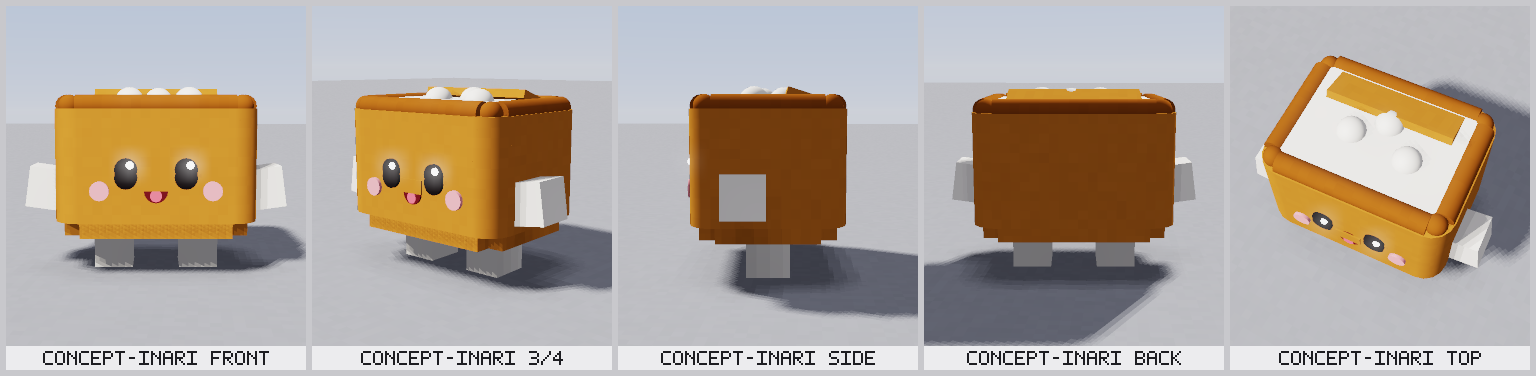
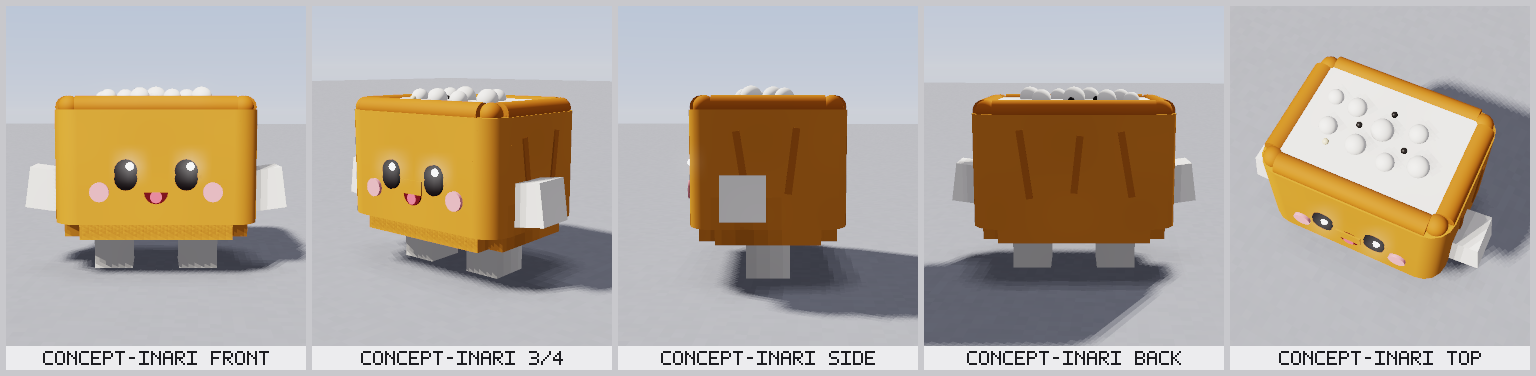
feat(m5-30): concept topping quality pass (unagi, uni, tako, inari)
Raise the concept-body part budget 47 -> 70 (user decision) and rebuild
the four batch-2 toppings with two-tone layers, grain and skin: grilled
eel slab with a glossy tare layer, layered uni lobes with shiso, tako
with purple skin caps and suckers, inari with creases and sesame.
Fixes m5-29 QA B1 (band hid flustered brows) and B2 (floating nori).

diff --git a/docs/developer/m5-30-concept-topping-quality.md b/docs/developer/m5-30-concept-topping-quality.md
@@ -1,0 +1,30 @@
+# m5-30 콘셉트 스킨 2차 토핑 퀄리티 패스
+
+스펙: `docs/specs/m5-30-concept-topping-quality.md` · 바탕: `docs/developer/m5-29-concept-skins-2.md`
+
+## 인계 메모 (최신이 위)
+
+### 2026-10-14 — 구현·렌더·테스트 끝, `in-qa`
+- 브랜치: `m5-30-concept-topping-quality` (main f47c428에서)
+- 바뀐 파일
+  - `src/shared/SushiBody.luau`: 콘셉트 몸 `partBudget` 47 → 70.
+  - `src/shared/SushiConceptSample.luau`: 장어·성게·문어·유부 토핑과 색을 새로 만듦, `band` 아래끝 0.32 → 0.46(B1), 유부 재질 Sand.
+  - 테스트: m5-27·m5-28(상한 70), m5-29(토핑 파츠 이름·장어 Glass는 소스 층), m5-29-qa(당황 표정 추가).
+  - 그림: `docs/renders/characters/concept-{unagi,uni,tako,inari}-*.png` 20장 + `concept-skins-lineup.png` 덮어씀.
+- 다음 첫 단계: QA.
+
+#### 토핑 구성 (게임 레이아웃, 당황 표정 파츠 수 / 70)
+| 스킨 | 당황 | 토핑 |
+|---|---|---|
+| concept-unagi | 65 | 김 띠 6 + 구운 살 판(호박빛) 9 + 타레 소스 층(Glass) 9 + 석쇠 자국 4 + 참깨 6 + 김 6 |
+| concept-uni | 65 | 김 띠 그릇 6 + 진한 바닥 1 + 작은 혀 조각 10개(원기둥 + 앞뒤 공, 진한 주황·주황·겨자 3색, 앞줄은 앞으로 흘러내리고 뒷줄은 뒤로 기댐, 가운데 위 2개) 30 + 시소 잎 3 |
+| concept-tako | 59 | 흰 살 돔 + 적갈 껍질 테 12 + 물결 썰기 결 4 + 돔 양 끝 위 껍질 공 2 + 빨판 6(바깥 분홍 + 가운데 오목 점) 12 + 김 4 |
+| concept-inari | 53 | 말린 입구 테두리 8 + 흰 밥 판 1 + 밥알 8 + 참깨 4(검정 3·흰 1) + 옆·등 주름 7 |
+
+#### 렌더 비평 (studio 조명)
+1. **1회차** — 장어: 연어식 높은 돔(진한 Glass) + 호박빛 테두리 + 석쇠·윤기 줄 + 참깨 → 둥근 초콜릿 공·헬멧처럼 보여 오히려 장어 같지 않음. 성게: 작은 조각이 겹겹이 쌓이고 3색이 섞여 m5-29의 "소시지 4개"보다 훨씬 진짜 같음. 문어: 껍질 공이 몸 옆으로 작은 혹처럼만 솟음. 유부: 주름이 진한 선이라 갈라진 금처럼 보임.
+2. **2회차** — 장어: 넓적한 구운 살 판 위에 0.2씩 작은 타레 소스 층 → 가장자리에 노릇한 살이 테두리로 보이고 위는 윤기 나는 진갈색, 석쇠 자국·참깨 — 시트와 실제 장어초밥에 가장 가까움. 문어: 껍질 공을 위로(0.4) 올리고 크게(1.6) → 돔 양 끝 윗부분이 적갈 껍질이고 빨판이 거기 붙어 문어로 읽힘. 유부: 더 노릇한 색, 주름을 밝고 넓게 → 금 대신 주름결.
+- 남은 약점: 유부는 공유 밥 몸이 상자라 여전히 각진 주머니(모양을 바꾸려면 공유 몸 예외를 늘려야 해요). 장어 소스 층 앞 두께가 얇아 정면에서는 테두리 위 진한 띠로만 보여요.
+
+#### 검증 결과 (2026-10-14, 로컬 Windows)
+rojo build OK · stylua OK · selene 0/0/0 · `lune run tests` **1858 passed, 0 failed** · luau-lsp 끝 코드 0

diff --git a/docs/specs/m5-30-concept-topping-quality.md b/docs/specs/m5-30-concept-topping-quality.md
@@ -1,0 +1,34 @@
+status: in-qa
+<!-- draft | ready | in-dev | in-qa | qa-passed | done -->
+
+# m5-30 — 콘셉트 스킨 2차 토핑 퀄리티 패스 (장어·성게 군함·문어·유부)
+
+- 마일스톤: M5
+- GDD 근거: `docs/GDD.md` §9.1 (겉모습만) · 바탕: `docs/specs/m5-29-concept-skins-2.md`, QA `docs/qa/m5-29-concept-skins-2.md`
+- 담당 개발 worktree: 브랜치 `m5-30-concept-topping-quality` (main f47c428에서)
+- 공용 파일 수정 담당: 없음
+
+## 목표
+m5-29의 새 콘셉트 스킨 4종 토핑이 "너무 가짜 같다"(사용자, 2026-10-14). 단색 덩어리 대신 결·두 톤·껍질·재질을 넣어 진짜 음식처럼 보이게 한다. 콘셉트 몸 파츠 상한을 47 → 70으로 올린다(사용자 결정). m5-29 QA P3 B1·B2를 같이 고친다.
+
+## 범위
+- 포함: `SushiBody.EXPERIMENTAL[*].partBudget` 70(콘셉트 9종 모두), 장어·성게·문어·유부 토핑 다시 만들기, B1(김 띠가 당황 눈썹 가림 → 띠 아래끝 0.46), B2(장어 등 세로 김이 밥 등면에서 뜸 → 띠 아래는 밥 등면에 붙임), 렌더 PNG 갱신, 테스트 기대값 갱신(상한·파츠 이름).
+- 제외: 콘셉트 5종(연어·참치·새우·계란·연어알)과 다른 31종 모양 변경, 공용 파일.
+
+## 수용 기준
+- [ ] AC1: 콘셉트 9종 partBudget = 70, 9종 × 표정 4종 파츠 ≤ 70, 발바닥·이름표·효과 0·z-fighting 0·떠 있음 0 (m5-28 테스트).
+- [ ] AC2: 콘셉트 5종과 다른 31종 레이아웃이 main(f47c428)과 바이트 단위로 같다.
+- [ ] AC3: 새 4종이 당황 표정까지 포함해 토핑이 얼굴 파츠를 앞에서 가리지 않는다 (`tests/m5-29-qa.spec.luau`에 Flustered 추가).
+- [ ] AC4: 공유 몸·유부 예외·관절·build 기준(m5-29 AC5·AC6)이 그대로 통과.
+- [ ] AC5: 렌더 비평 2회 이상, 새 PNG 커밋, 줄 세우기에서 9종 구분. 검증 5단계 통과.
+- [ ] AC6 (Studio): 장어 소스 층(Glass)·유부 Sand 재질이 Future 조명에서 자연스러운지, 성게 조각·문어 빨판이 달릴 때 깜빡이지 않는지.
+
+## 결정 기록
+- 2026-10-14 · "이번에 만든 스킨들 너무 가짜 같음" — 토핑 퀄리티 올리기 · 사용자
+- 2026-10-14 · 콘셉트 스킨 파츠 상한 47 → **70** (선택지 60/47/70 중 70) · 사용자
+- 2026-10-14 · 장어를 연어식 높은 돔으로 바꿔 봤다가(초콜릿 공처럼 보임) 넓적한 구운 살 판 + 한 겹 작은 타레 층(두 톤)으로 · 개발
+- 2026-10-14 · 유부 재질 Fabric → Sand(튀긴 두부 결) · 개발
+- 2026-10-14 · 성게 조각 파츠 이름 Tongue → Lobe (얼굴 혀 `Tongue`와 이름 접두어가 겹쳐 얼굴 파츠로 잘못 셈) · 개발
+
+## 개발 메모
+- 자세한 내용·렌더 비평은 `docs/developer/m5-30-concept-topping-quality.md`.
